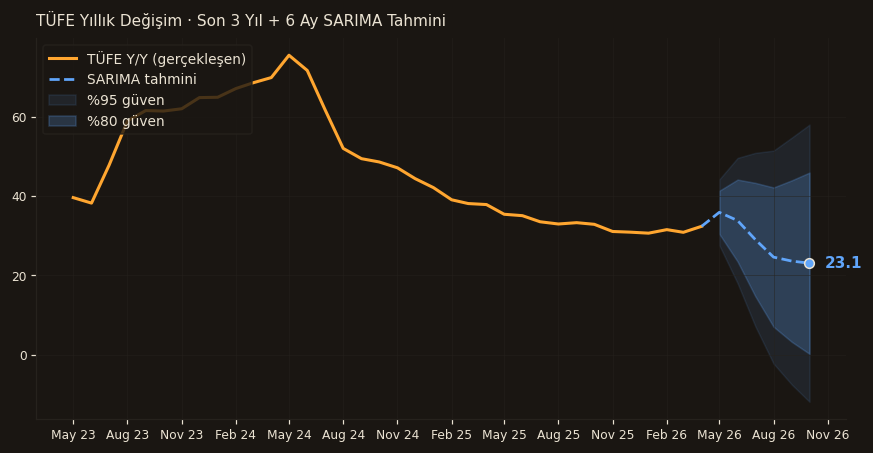
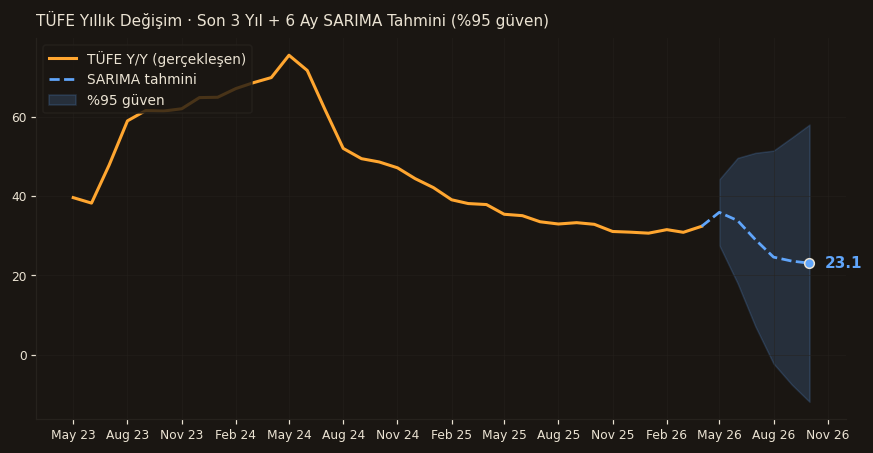
02a TÜFE: TÜFE seviyesinin anlamı yorumu + SARIMA %95 default (tek band)
- Forecast default güven aralığı %80 → %95 (forecast_helper.py)
- charts_advanced: dual-band yerine tek %95 band (daha temiz)
- 02a summary: TÜFE'nin kendisi hakkında ne anlama geldiği yorumu eklendi
  (gelişmekte ülke 5-15, gelişmiş 2-3, TR son 5y bağlamı)
- Tahmin yorumu daha sade — uzun teknik açıklama yerine View/Risk yapısı

Changed region(s): [[0.8041, 0.3709, 0.9278, 0.7726], [0.0309, 0.2472, 0.1856, 0.3091], [0.5258, 0.0309, 0.6495, 0.0618]]

diff --git a/makro-raporu/2026-q2/index.html b/makro-raporu/2026-q2/index.html
@@ -565,9 +565,9 @@ footer.pf-foot b, footer.pf-foot strong { color: var(--text); font-weight: 600; 
   </div>
   <div style="background:var(--bg-1);padding:0;border-bottom:1px solid var(--border)"><img src="charts/02a_tufe.png" alt="TÜFE Yıllık Değişim · 3 Yıl + 6 Ay SARIMA Tahmini" style="display:block;width:100%;height:auto;background:#1a1612" /></div>
   <div class="panel-body" style="padding:18px 22px;line-height:1.75;font-size:14.5px;color:var(--text-dim)">
-    <p>TÜFE Nisan'da yıllık 32.4'e çıktı, Mart'taki 30.9'dan 1.5 puan yukarı; baz etkisi yıl ortasından itibaren disenflasyonu yeniden destekleyecek. SARIMA(1,1,1)(1,1,1,12) modeli Ekim için merkezi 23 değerini öngörüyor ancak %80 güven aralığı 0-46 arasında geniş.</p>
-<p><strong>View.</strong> Yıl sonuna kadar 25 civarı bir taban beklenebilir; bandın genişliği kur, ücret ve idari fiyat sürprizlerinin hâlâ baskın belirsizlik kaynağı olduğunu gösteriyor.</p>
-<p><strong>Risk.</strong> Asgari ücret revizyonu veya kur şoku — her ikisi de iniş patikasını birkaç ay erteleyebilir.</p>
+    <p>TÜFE Nisan'da yıllık 32.4. Bu rakam ciddi yüksek: tüketicinin bir önceki yıla göre aynı sepete 32 kuruş fazla ödediği anlamına geliyor; gelişmekte olan ülkelerin tipik 5-15 bandının çok üstünde, gelişmiş ekonomilerin 2-3 hedefinin 10 katı civarında. Yine de Türkiye için son 5 yılın dip değerine yakın — 2022 sonunda 85'i, 2023 ortasında 50'yi gördük.</p>
+<p>SARIMA(1,1,1)(1,1,1,12) modeli baz etkisi ve sıkı politikanın birleşik etkisiyle Ekim için merkezi 23 değeri öngörüyor. %95 güven bandı geniş (Ekim için yaklaşık -12 ile 58 arası); aylık yüzde puan oynaklığının yüksekliği, kısa vadeli tahminin sınırını gösteriyor.</p>
+<p>View. Yıl sonuna kadar 22-28 bandı taban senaryo. Risk. Asgari ücret revizyonu veya kur şoku, iniş patikasını 3-6 ay erteleyebilir.</p>
   </div>
 </article>
 
@@ -878,7 +878,7 @@ footer.pf-foot b, footer.pf-foot strong { color: var(--text); font-weight: 600; 
 <footer class="pf-foot">
   <div>
     <div style="color:var(--text);font-weight:600;margin-bottom:4px;letter-spacing:.1em">KALİBRE · MARKETS</div>
-    <div>v2026.05 · son güncelleme 2026-05-13 23:27 TR</div>
+    <div>v2026.05 · son güncelleme 2026-05-13 23:30 TR</div>
     <div style="margin-top:6px;color:var(--muted)">Veriler: Yahoo Finance (gecikmeli) · TCMB EVDS · FRED · Dünya Bankası</div>
   </div>
   <div style="display:flex;gap:18px;flex-wrap:wrap">

diff --git a/makro-raporu/index.html b/makro-raporu/index.html
@@ -488,7 +488,7 @@ footer.pf-foot b, footer.pf-foot strong { color: var(--text); font-weight: 600; 
 <footer class="pf-foot">
   <div>
     <div style="color:var(--text);font-weight:600;margin-bottom:4px;letter-spacing:.1em">KALİBRE · MARKETS</div>
-    <div>v2026.05 · son güncelleme 2026-05-13 23:27 TR</div>
+    <div>v2026.05 · son güncelleme 2026-05-13 23:30 TR</div>
     <div style="margin-top:6px;color:var(--muted)">Veriler: Yahoo Finance (gecikmeli) · TCMB EVDS · FRED · Dünya Bankası</div>
   </div>
   <div style="display:flex;gap:18px;flex-wrap:wrap">
